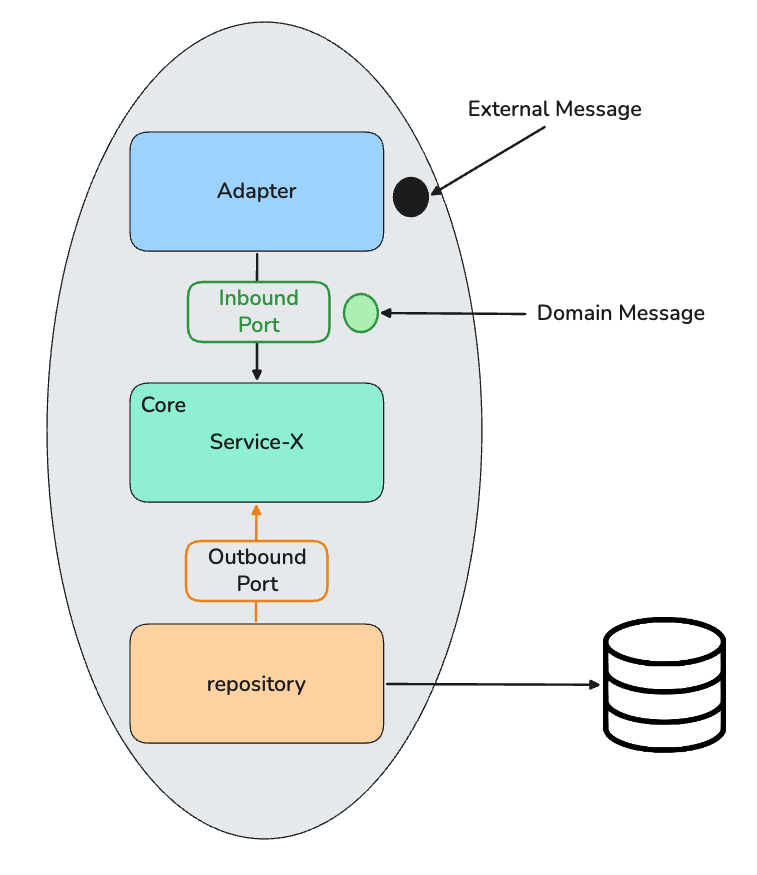
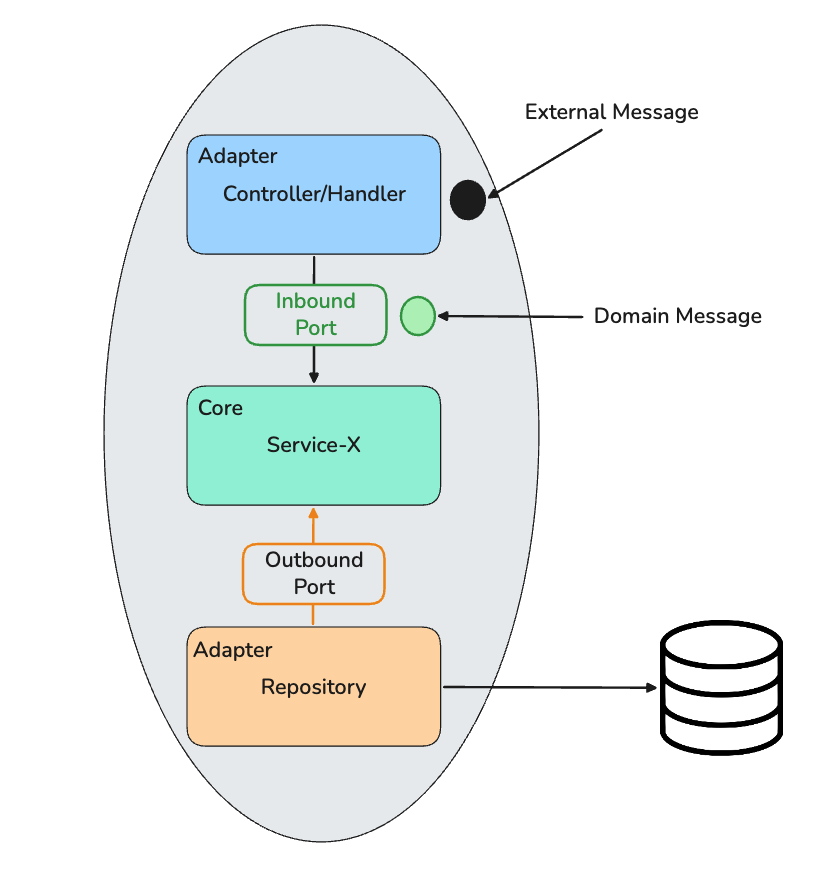
add image

Changed region(s): [[0.0608, 0.0, 0.9723, 0.9566], [0.6077, 0.0926, 0.8507, 0.1851], [0.3646, 0.9566, 0.395, 0.9874]]

diff --git a/src/content/blog/ports-and-adapters-arch.md b/src/content/blog/ports-and-adapters-arch.md
@@ -10,7 +10,7 @@ Every developer writes code, lots of code. Good developers design ahead — they
 ## Short History  
 Hexagonal architecture, aka "ports and adapters architecture," is a software design. It was designed by Alistair Cockburn as an attempt to avoid common problems discovered in other designs. In 2005, he announced this design for building object-oriented systems; yet, hexagonal architecture is generic enough to handle non-object-oriented systems too. Alistair wanted to design something that would reduce coupling between its components. Despite the fact that this is a software design mainly translated into the code layer, you'll observe that the intuition behind its core building blocks came purely from supportive components and infrastructure used in systems like databases and external remote system calls.
 
-The idea behind this architecture is something most engineers already know: separation of concerns. This architecture generalizes it in a way that looks at the system from a layer and component perspectives — every system is built to do something, "the core domain," and everything else is support. Such support can be inbound, "from outside in," or outbound, "from inside out" — and this is why it's also called ports and adapters architecture.
+The idea behind this architecture is something most engineers already know: separation of concerns. This architecture generalizes it in a way that looks at the system from both layer and component perspective — every system is built to do something, "the core domain," and everything else is support. Such support can be inbound, "from outside in," or outbound, "from inside out" — and this is why it's also called ports and adapters architecture.
 
 ## The Core Pillars 
 
@@ -21,7 +21,7 @@ The good thing about understanding architecture and software design is the relat
 ### The core domain 
 This is the central component that includes the core functionalities, typically the business requirements. This architecture recommends keeping this layer native by nature; it's the component that should work and solve the problem without being tightly coupled to any other layer. It should be designed this way to be flexible and testable. If you're using Go, it should be native Go without any external libraries or frameworks — the same goes if you're using Java, Python, or any other language.
 
-This idea is really well defined: if you build this part natively, it becomes extremely easy to change anything around it, they become interchangeable components, while your core domain keeps working. Think about it.
+This idea is really well defined: if you build this part natively, it becomes extremely easy to swap the components around it — they become interchangeable — while your core domain keeps working.
 
 ### Adapters 
 Adapters are logically the doors to the outside world. A system needs to store data in a data store (database, messaging broker, cache system), and it needs to fetch data from external systems via RPC. Since these doors do many things like managing network and I/O, you'll ultimately find them in the form of libraries or frameworks. For instance, exposing an API requires handling layer 7 over the HTTP server you're using — you don't need to do all of this yourself; it's better to use ready-made technology, something like controllers in Spring Boot, or handlers in Go Gin.
@@ -42,7 +42,18 @@ A common mistake engineers make when using this design recently is reversing the
 
 ![](https://raw.githubusercontent.com/sweelam/my-blogs/main/images/blog/hexa-database-access.png)
 
-To build this correctly, you should strictly use dependency inversion. You should rely on abstraction not implementation, the following class diagram explains the design 
+To build this correctly, you should strictly use dependency inversion. You should rely on abstraction not implementation, the following class diagram explains the design, You can see the core component in the middle and the direction is pointing to it using inversion of control.
 
 ![](https://raw.githubusercontent.com/sweelam/my-blogs/main/images/blog/hexa-class-diagram.png)
 
+### Benefits of Hexagonal Architecture
+
+- **Testability** — the core domain has no dependency on databases, HTTP frameworks, or message brokers, so you can test business logic with plain unit tests and in-memory fakes, no test containers or mocked servers required.
+- **Technology independence** — swapping a database, message broker, or web framework means writing a new adapter, not touching the core domain. The business logic doesn't know or care what's outside the port.
+- **Maintainability** — changes triggered by infrastructure (a new API version, a different cache, a vendor migration) stay isolated to adapters, reducing the blast radius of change across the codebase.
+- **Clear boundaries** — ports make the contract between the core domain and the outside world explicit, so engineers always know exactly what the domain expects and exposes, rather than discovering it by tracing through framework code.
+- **Longevity** — because the core domain isn't tied to any specific framework or library version, it's far less exposed to deprecations, breaking upgrades, or vendor lock-in over the system's lifetime.
+- **Easier onboarding** — new engineers can understand the business rules by reading the core domain alone, without needing to first untangle infrastructure code.
+
+### Conclusion 
+Hexagonal architecture isn't about hexagons or strict folder layouts — it's a discipline: keep your core domain free of infrastructure concerns, and let ports and adapters absorb the volatility of the outside world. Get that boundary right, and swapping a database or an HTTP framework becomes a non-event instead of a rewrite.